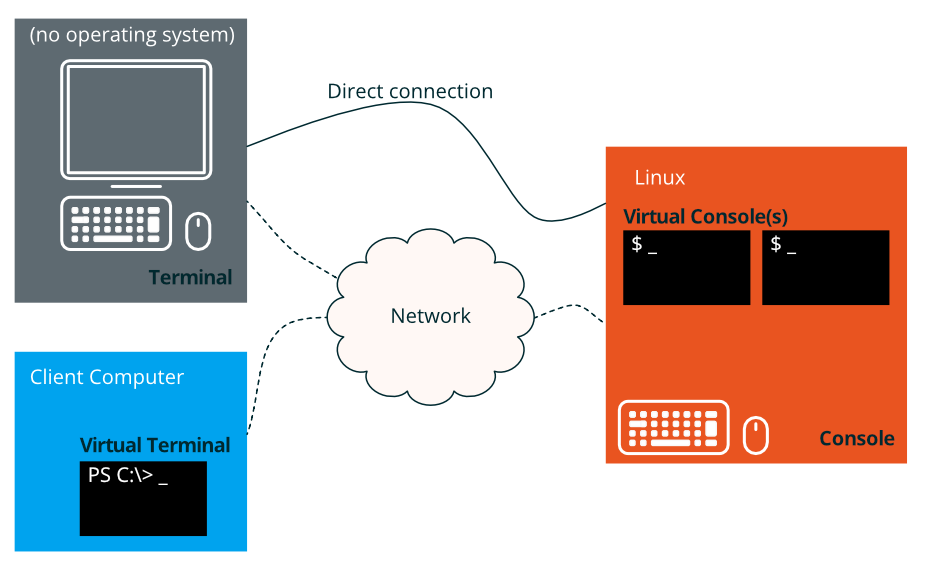
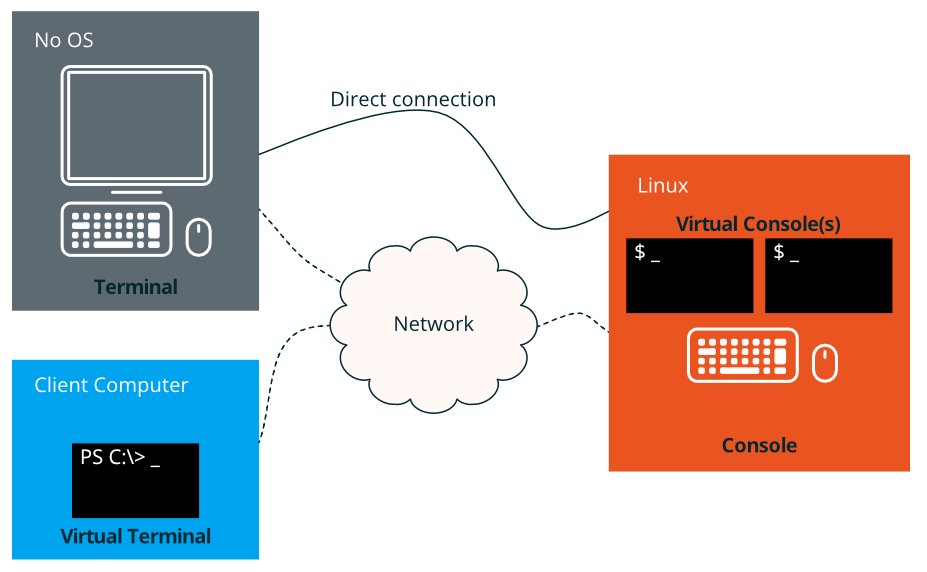
Polishing the material and adding missing commands to 5. midvoyage material. Updated links to appropriate man pages.

diff --git a/basics-of-linux/05-midvoyage.md b/basics-of-linux/05-midvoyage.md
@@ -19,32 +19,42 @@ Remember that you are the sole owner of the temporary Linux environment on the r
 
 This list shows all the commands that you have used so far.
 
-| Command | Example | Description|
-|-|-|-|
-| `exit` | `exit` | cause the shell to exit |
-| `export` | `export NAME=value` | sets the variable NAME to the value `value` |
-| `tree` | `tree` | list contents of directories in a tree-like format |
-| `cd` | `cd directory` | change the working directory |
-| `pwd` | `pwd` | print name of current/working directory |
-| `ls` | `ls` | list directory contents |
-| `touch` | `touch somefile` | change file timestamps |
-| `echo` | `echo Hello World` | display a line of text |
-| `file` | `file /usr/bin/rm` | determine file type |
-| `mkdir` | `mkdir newdir` | make directories |
-| `rm` | `rm somefile` | remove files or directories |
-| `rmdir` | `rmdir directory` | remove empty directories |
-| `mv` | `mv oldname newname` | rename (move) a file |
-| `cat` | `cat somefile` | concatenate and print files |
-| `id` | `id` | print real and effective user and group IDs |
-| `chmod` | `chmod u+x file` | change file mode bits |
-| `dd` | `dd if=/dev/random of=file` | convert and copy a file |
-| `stat` | `stat somefile` | display file or file system status |
-| `ln` | `ln target link` | make links between files |
-| `du` | `du -h` | estimate file space usage |
-| `whereis` | `whereis rm` | locate the binary, source, and manual page files for a command |
-| `gcc` | `gcc main.c -o main` | GNU project C and C++ compiler |
-| `env` | `env` | set the environment for command invocation |
-| `grep` | `grep text fromfile` | search a file for a pattern |
-| `man` | `man rm` | display system documentation |
+| Command | Example | Short description | Manual |
+|-|-|-|-|
+| `exit` | `exit` | cause the shell to exit | [man exit](https://man7.org/linux/man-pages/man1/exit.1p.html) |
+| `export` | `export NAME=value` | sets the variable NAME to the value `value` | [man export](https://man7.org/linux/man-pages/man1/export.1p.html) |
+| `tree` | `tree` | list contents of directories in a tree-like format | [man tree](https://linux.die.net/man/1/tree) |
+| `cd` | `cd directory` | change the working directory | [man cd](https://man7.org/linux/man-pages/man1/cd.1p.html) |
+| `pwd` | `pwd` | print name of current/working directory | [man pwd](https://man7.org/linux/man-pages/man1/pwd.1.html) |
+| `ls` | `ls` | list directory contents | [man ls](https://man7.org/linux/man-pages/man1/ls.1.html) |
+| `touch` | `touch somefile` | change file timestamps | [man touch](https://man7.org/linux/man-pages/man1/touch.1.html) |
+| `echo` | `echo Hello World` | display a line of text | [man echo](https://man7.org/linux/man-pages/man1/echo.1.html) |
+| `file` | `file /usr/bin/rm` | determine file type | [man file](https://man7.org/linux/man-pages/man1/file.1.html) |
+| `mkdir` | `mkdir newdir` | make directories | [man mkdir](https://man7.org/linux/man-pages/man1/mkdir.1.html) |
+| `rm` | `rm somefile` | remove files or directories | [man rm](https://man7.org/linux/man-pages/man1/rm.1.html) |
+| `rmdir` | `rmdir directory` | remove empty directories | [man rmdir](https://man7.org/linux/man-pages/man1/rmdir.1.html) |
+| `mv` | `mv oldname newname` | rename (move) a file | [man mv](https://man7.org/linux/man-pages/man1/mv.1.html) |
+| `cat` | `cat somefile` | concatenate and print files | [man cat](https://man7.org/linux/man-pages/man1/cat.1.html) |
+| `id` | `id` | print real and effective user and group IDs | [man id](https://man7.org/linux/man-pages/man1/id.1.html) |
+| `chmod` | `chmod u+x file` | change file mode bits | [man chmod](https://man7.org/linux/man-pages/man1/chmod.1.html) |
+| `dd` | `dd if=/dev/random of=file` | convert and copy a file | [man dd](https://man7.org/linux/man-pages/man1/dd.1.html) |
+| `stat` | `stat somefile` | display file or file system status | [man stat](https://man7.org/linux/man-pages/man1/stat.1.html) |
+| `ln` | `ln target link` | make links between files | [man ln](https://man7.org/linux/man-pages/man1/ln.1.html) |
+| `du` | `du -h` | estimate file space usage | [man du](https://man7.org/linux/man-pages/man1/du.1.html) |
+| `whereis` | `whereis rm` | locate the binary, source, and manual page files for a command | [man whereis](https://man7.org/linux/man-pages/man1/whereis.1.html) |
+| `gcc` | `gcc main.c -o main` | GNU project C and C++ compiler | [man gcc](https://man7.org/linux/man-pages/man1/gcc.1.html) |
+| `env` | `env` | set the environment for command invocation | [man env](https://man7.org/linux/man-pages/man1/env.1.html) |
+| `grep` | `grep text fromfile` | search a file for a pattern | [man grep](https://man7.org/linux/man-pages/man1/grep.1.html) |
+| `man` | `man rm` | display system documentation | [man man](https://man7.org/linux/man-pages/man1/man.1.html) |
+| `cp` | `cp source dest` | copy files and directories | [man cp](https://man7.org/linux/man-pages/man1/cp.1.html) |
+| `head` | `head somefile` | output the first part of files | [man head](https://man7.org/linux/man-pages/man1/head.1.html) |
+| `tail` | `tail somefile` | output the last part of files | [man tail](https://man7.org/linux/man-pages/man1/tail.1.html) |
+| `less` | `less somefile` | opposite of more | [man less](https://man7.org/linux/man-pages/man1/less.1.html) |
+| `reset` | `reset` | terminal initialization | [man reset](https://man7.org/linux/man-pages/man1/reset.1.html) |
+| `xxd` | `xxd binaryfile` | make a hex dump or do the reverse | [man xxd](https://linux.die.net/man/1/xxd) |
+| `strings` | `strings binaryfile` | print the sequences of printable characters in files | [man strings](https://man7.org/linux/man-pages/man1/strings.1.html) |
+| `nano` | `nano somefile` | Nano's ANOther editor, inspired by Pico | [man nano](https://linux.die.net/man/1/nano) |
+| `vim` | `vim somefile` | Vi IMproved, a programmer's text editor | [man vim](https://linux.die.net/man/1/vim) |
+| `source` | `source ~/.bashrc` | execute commands from a file in the current shell | [man source](https://man7.org/linux/man-pages/man1/dot.1p.html) |
 
 Are you ready to continue your adventure? The [next chapter](06-working-with-files.md) awaits!

diff --git a/basics-of-linux/03.1-file-properties.md b/basics-of-linux/03.1-file-properties.md
@@ -148,6 +148,10 @@ Let's have another example. Type the command `echo "For your eyes only" > access
 
 Then, execute the command `chmod 007 access-denied`. What do you think will happen? Take another look at the table above.
 
+::: tip
+Octal permissions can be added together.
+:::
+
 Try out the changed permissions using the commands `echo hi > access-denied` and `cat access-denied`.
 
 ::: terminal
@@ -163,7 +167,8 @@ For your eyes only
 cat: access-denied: Permission denied
 {{USERNAME}}@{{HOSTNAME}}:~$ ls -l access-denied
 -------rwx 1 {{USERNAME}} {{USERNAME}}   24 Apr  6 14:33 access-denied
-{{USERNAME}}@{{HOSTNAME}}:~$ chmod u+rw,g+rw,o-wx access-denied█
+{{USERNAME}}@{{HOSTNAME}}:~$ chmod u+rw,g+rw,o-wx access-denied
+{{USERNAME}}@{{HOSTNAME}}:~$ █
 :::
 
 ::: guidance

diff --git a/basics-of-linux/04.3-food-for-thought.md b/basics-of-linux/04.3-food-for-thought.md
@@ -80,12 +80,16 @@ So, what do the system executables do? Where can information on how to use the c
 
 These days, we have AI to help us. However, perhaps your computer is offline and you have no internet access. Or sometimes, consulting the manual for a command can give you better ideas for achieving your goal than an LLM would suggest.
 
-The Man Pages project aims to compile a concise manual of all the system's installed commands. To view the manual for a command, simply type `man <cmd>` into your terminal. Press `q` to exit the manual.
+[The Man Pages project](https://www.kernel.org/doc/man-pages/) aims to compile a concise manual of all the system's installed commands. To view the manual for a command, simply type `man <cmd>` into your terminal. Press `q` to exit the manual.
 
 Now:
 
 a) Type in the command `man sl`.
 b) Skim through the manual and exit with `q`.
 c) Execute the command `sl`.
+
+::: service
+Man pages are also available [online](https://man7.org/linux/man-pages/index.html).
+:::
 
 Great! We've covered a lot of ground. [The next chapter](05-midvoyage.md) will summarise everything that has been discussed so far.

diff --git a/basics-of-linux/02.1-food-for-thought.md b/basics-of-linux/02.1-food-for-thought.md
@@ -71,7 +71,9 @@ Relative paths can be 'chained'. To refer the parent directory's parent director
 
 Using relative paths may sometimes be mandatory, for example in the make files of a source code, but generally using absolute paths avoids confusion and possible errors.
 
-It is important to understand the difference between these two types of reference.
+::: guidance
+It is important to understand the difference between absolute and relative paths, and how this difference is reflected in practice.
+:::
 
 ## The many faces of the home directory 
 

diff --git a/basics-of-linux/03.3-food-for-thought.md b/basics-of-linux/03.3-food-for-thought.md
@@ -12,7 +12,7 @@ A new file will also be created as an output of the compilation of a C source fi
 
 When creating new files, the key point to note is that the file name itself tells us nothing about the file. Possible name extensions cannot be relied on, and file permissions define the file's features more than its name.
 
-This goes for all files, of course.
+This of course applies to all files, not just new ones.
 
 ### Modify
 

diff --git a/basics-of-linux/04.1-arguments.md b/basics-of-linux/04.1-arguments.md
@@ -35,7 +35,7 @@ can be written as:
 Both commands produce the same output.
 
 ::: tip
-[Man pages](https://man7.org/linux/man-pages/man1/ls.1.html) are an excellent source of information on the different options and arguments that commands can have.
+[Man pages](04.3-food-for-thought.md#man-pages) are an excellent source of information on the various options and arguments that commands can have.
 :::
 
 ## Within own scripts

diff --git a/basics-of-linux/06.2-edit.md b/basics-of-linux/06.2-edit.md
@@ -10,7 +10,7 @@ An older, more basic version of `vim` called `vi` can be found in the oldest and
 
 Nano is an easy-to-use text editor that can be used in a terminal window. To open an empty editor view, enter the command `nano`.
 
-![Nano text editor](/imgs/nano.png)
+![Nano text editor](imgs/nano.png)
 
 You can then enter text and move around using the arrow keys, as well as a set of commands. Most of these commands use the control (`^`) key as a modifier.
 